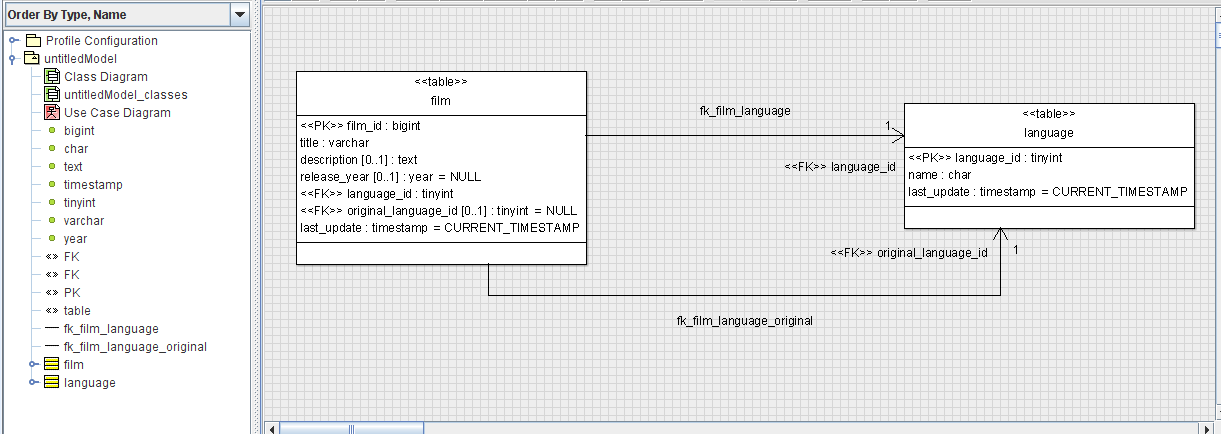
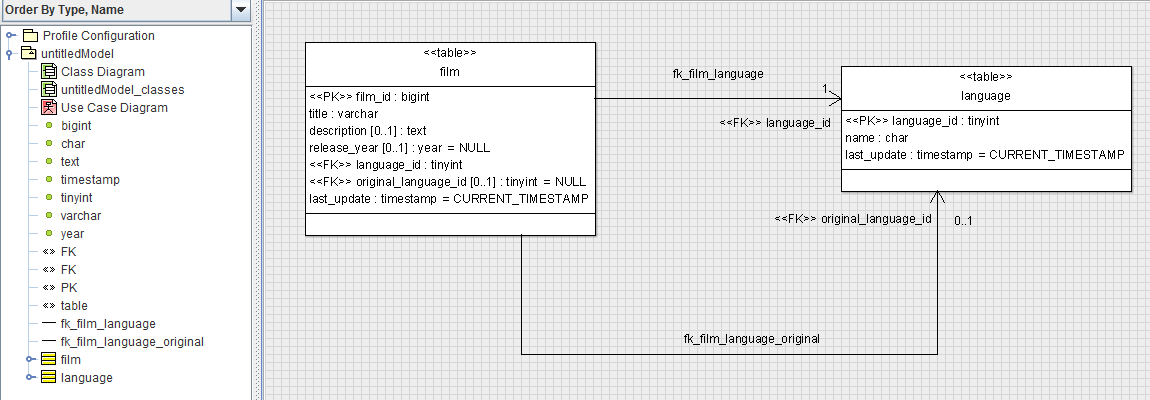
Import SQL script : The Modeler P must create a 0..1 association instead of 1..1 if a column of FK is nullable (Modeler C is OK)
Include the new Picture for web site

git-svn-id: http://argouml-sql.tigris.org/svn/argouml-sql/trunk@318 dc9a2ffb-671e-0410-bcaf-86adf31cdc5b

diff --git a/src/org/argouml/language/sql/reveng/ModellerP.java b/src/org/argouml/language/sql/reveng/ModellerP.java
@@ -96,7 +96,7 @@ public class ModellerP implements ModellerLevel {
 						}
 					}
 					
-		    	}
+				}
 				foreign_keys.addAll(table.getFkDefinitions());
 			} // end write class
 			
@@ -114,7 +114,14 @@ public class ModellerP implements ModellerLevel {
 			
 			String nameAssociationEnd = name;
 			
-			
+			// if at least one column of the FK in the Table is nullable : "0..1", otherwise "1".
+			for (ColumnDefinition columnDefinition : fk.getColumns()) {
+            			if (columnDefinition.getNullable() == null || columnDefinition.getNullable()) {
+            			    multiplicity = Modeller.ASSOCIATION_01;
+            			    break;
+            			}
+            	    	}
+
 			Object mAssociationEnd = modellerSource.getAssociationEnd(name, mClassifier, mClassifierEnd);
 			//setVisibility(mAssociationEnd, modifiers);
 			Model.getCoreHelper().setMultiplicity(
